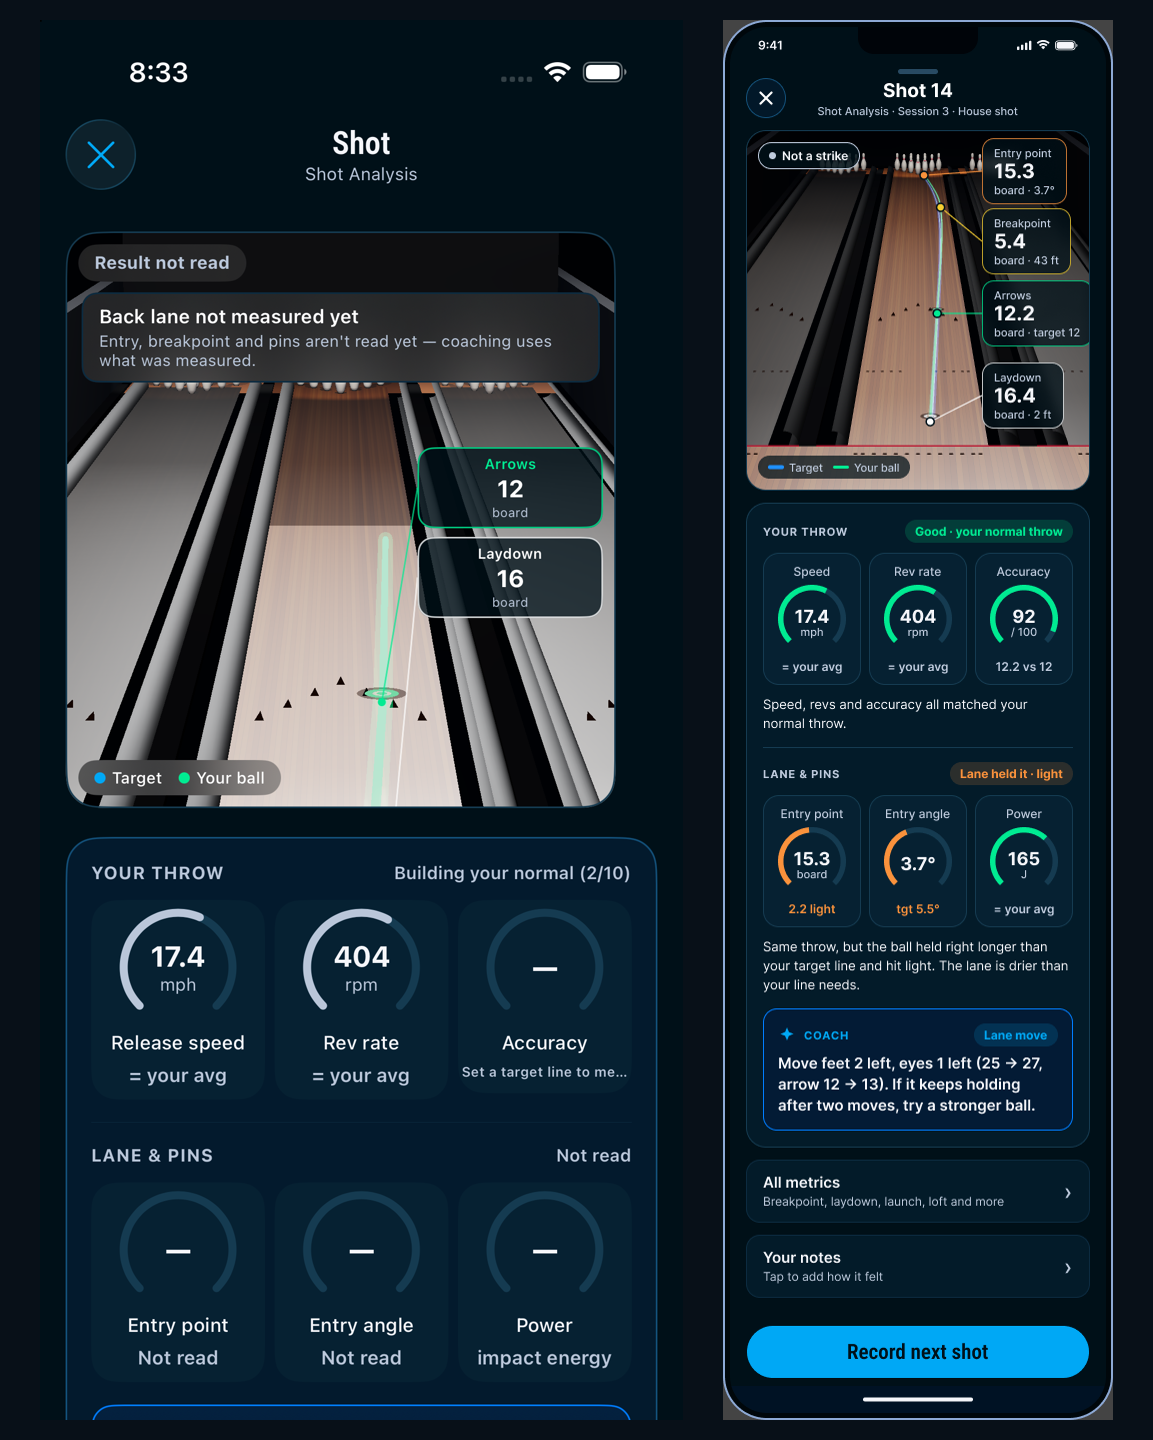
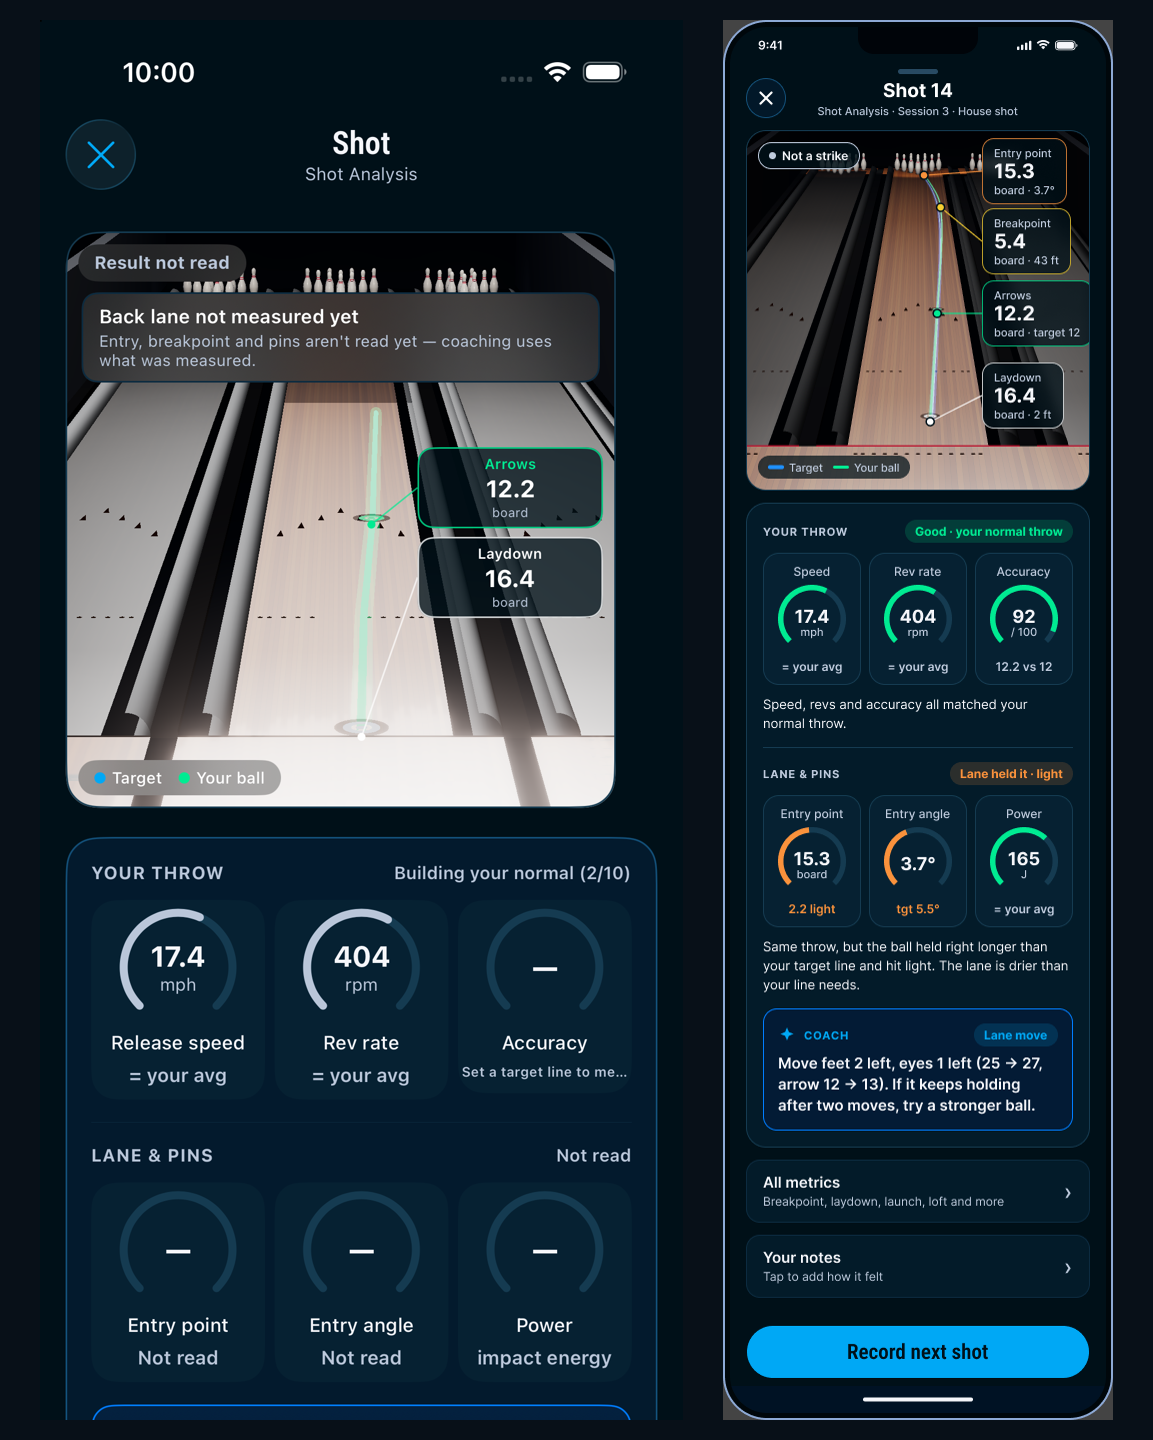
DEC-127: lane camera matches the design renders (pins within 4px) + decimal callouts
shots.json's camera (14.5° / 22 ft back) is stale — it renders the pins ~2x too big. The design PNGs were made
with the camera Shayne described: 30 ft behind the foul, 10 ft up, look-at 15.5 ft, 16° vertical FOV. Updated
sceneData() to that camera; verified objectively by rendering shots.json's own lane_d2/lane_d3 through the app's
WKWebView and pixel-diffing vs lane_render_good_throw@3x.png / lane_render_far_lane_not_read@3x.png: pin tops
align within 4px, lane extent + foul within ~1px (overlays in compare/). Callout values now show one decimal
(12.2, 16.4) with 'board · target N' / '· N ft' / '· N°' sub-labels when the data exists. Added a DEBUG
lanescene preview harness for the pixel-diff.

diff --git a/ios/LaneSight/Sources/LaneSightApp.swift b/ios/LaneSight/Sources/LaneSightApp.swift
@@ -142,6 +142,12 @@ struct PreviewHarness: View {
                         NavigationStack { if r.isForm { FormCardView(result: r) } else { ShotCardView(result: r) } }
                     }
                     else { Text("no shot result (set LS_PREVIEW_ID)").foregroundStyle(LS.textPrimary) }
+                case "lanescene":
+                    // DEC-127 objective diff: render ONLY the WebGL lane scene with the exact JSON from
+                    // LS_PREVIEW_DATA (shots.json verbatim), 344×360 at the screen top-left, so a 3× screenshot
+                    // crops to 1032×1080 and diffs against lane_render_*@3x.png.
+                    LaneScenePreview(dataJSON: ProcessInfo.processInfo.environment["LS_PREVIEW_DATA"] ?? "{}")
+                        .statusBarHidden(true)
                 case "activesession":
                     if let id = ProcessInfo.processInfo.environment["LS_PREVIEW_ID"] {
                         NavigationStack { SessionView(reviewSessionId: id, readOnly: false) }
@@ -243,6 +249,23 @@ struct PreviewHarness: View {
             ? #"{"id":"s","kind":"achievement_popup","priority":1,"payload":{"category":"streak","name":"Line Locked","description":"10 shots in a row within 1 board of your target at the arrows","value":"SHOTS 32–41"}}"#
             : #"{"id":"s","kind":"tier_celebration","priority":1,"payload":{"to_tier":"platinum","score":706,"next_tier":"onyx","points":144}}"#
         return try? JSONDecoder().decode(AppNotification.self, from: Data(json.utf8))
+    }
+}
+
+/// DEC-127 objective diff harness: the bare WebGL lane scene at the screen's top-left (344×360 pt), black
+/// background, from the given JSON — for a 3× screenshot → 1032×1080 pixel-diff vs lane_render_*@3x.png.
+struct LaneScenePreview: View {
+    let dataJSON: String
+    @State private var pts: [String: CGPoint] = [:]
+    var body: some View {
+        ZStack(alignment: .topLeading) {
+            Color.black.ignoresSafeArea()
+            ShotLaneWebView(dataJSON: dataJSON, w: 344, h: 360, pts: $pts)
+                .frame(width: 344, height: 360)
+                .padding(.top, 70)     // clear the dynamic island so the 3× crop (y≥210px) is clean
+        }
+        .frame(maxWidth: .infinity, maxHeight: .infinity, alignment: .topLeading)
+        .ignoresSafeArea()
     }
 }
 #endif

diff --git a/ios/LaneSight/Sources/Result/ShotLaneView.swift b/ios/LaneSight/Sources/Result/ShotLaneView.swift
@@ -51,10 +51,12 @@ struct ShotLaneView: View {
         var out: [ProjectedLabel] = []
         func add(_ key: String, _ title: String, _ board: Double?, _ sub: String, _ color: Color) {
             guard let board, let pt = pts[key] else { return }
-            out.append(.init(id: key, title: title, value: "\(Int(board.rounded()))", sub: sub, color: color, point: pt))
+            out.append(.init(id: key, title: title, value: String(format: "%.1f", board), sub: sub, color: color, point: pt))
         }
-        add("laydown", "Laydown", kp["laydown"]?.board ?? m("laydown_board"), "board", .white)
-        let tgtArrows = result.recommendation?.move_target   // intent at the arrows, if any
+        let layZ = kp["laydown"]?.z_ft ?? 0
+        add("laydown", "Laydown", kp["laydown"]?.board ?? m("laydown_board"),
+            layZ > 0.5 ? "board · \(Int(layZ.rounded())) ft" : "board", .white)
+        let tgtArrows = result.suggestedTarget?.arrows_board ?? result.recommendation?.move_target   // intended line
         add("arrows", "Arrows", kp["arrows"]?.board ?? m("arrows_board"),
             tgtArrows.map { "board · target \(Int($0.rounded()))" } ?? "board", Color(hex: 0x00EB92))
         if !farLaneNotRead {
@@ -136,8 +138,11 @@ struct ShotLaneView: View {
         // dense measured path (to the last measured distance; `cut` trims it in-scene)
         var act: [[Double]] = []
         for p in (r.pathFit?.points ?? []) { if let z = p.z_ft, let b = p.board { act.append([z, b]) } }
+        // Camera that reproduces the design renders (lane_render_*@3x.png) pixel-for-pixel: 30 ft behind the foul,
+        // 10 ft up, look 15.5 ft down the lane, 16° vertical FOV. (shots.json's 14.5°/22 ft is stale — it renders
+        // the pins ~2× too big; verified by the compare/ overlays.)
         var data: [String: Any] = [
-            "cam": [0, 9.5, -22], "look": [0, 0, 33], "fov": 14.5,
+            "cam": [0, 10, -30], "look": [0, 0, 15.5], "fov": 16,
             "act": [[0, 20, 0], [30, 14, 0], [60, 17.5, "e", 4.0]],   // fallback anchors if no dense path
             "marks": [] as [[String: Any]],
         ]
